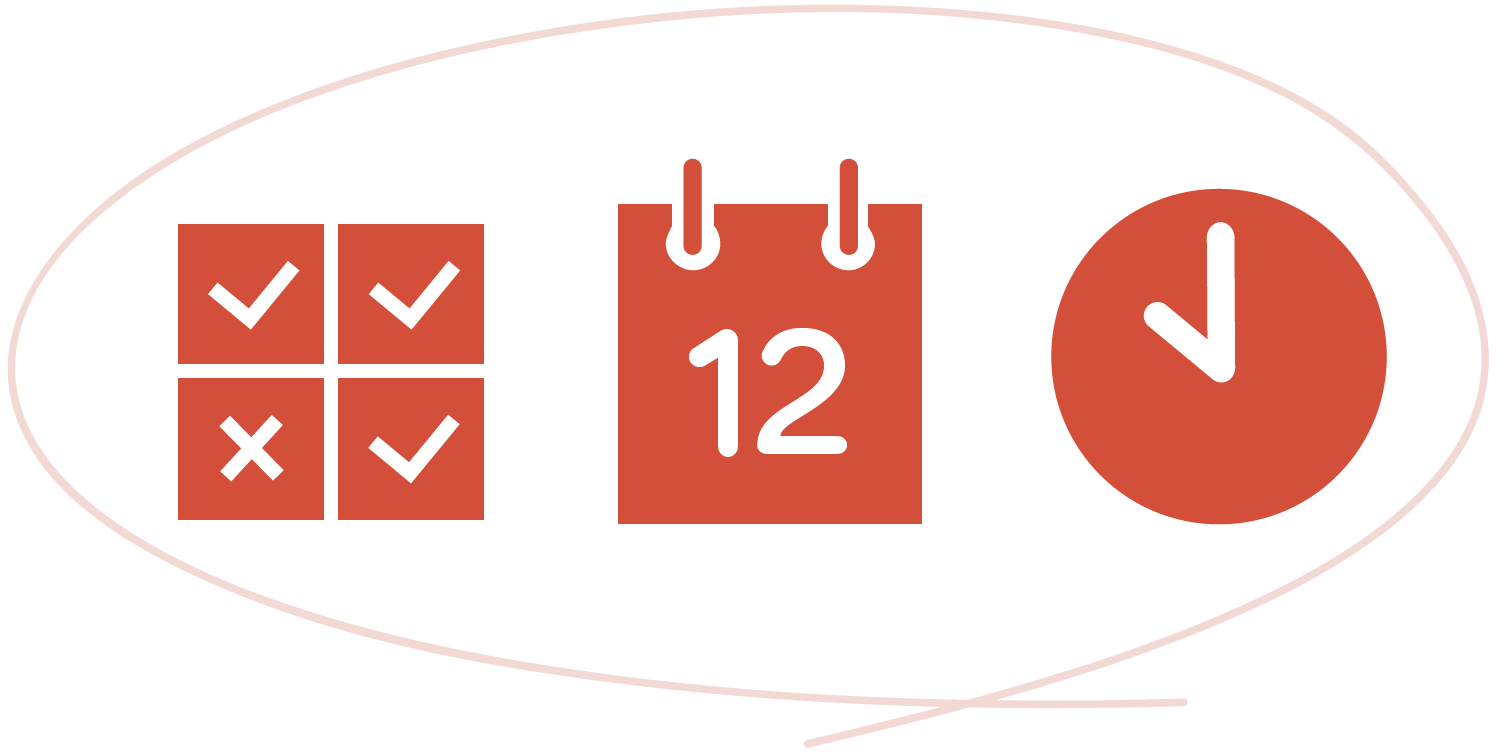
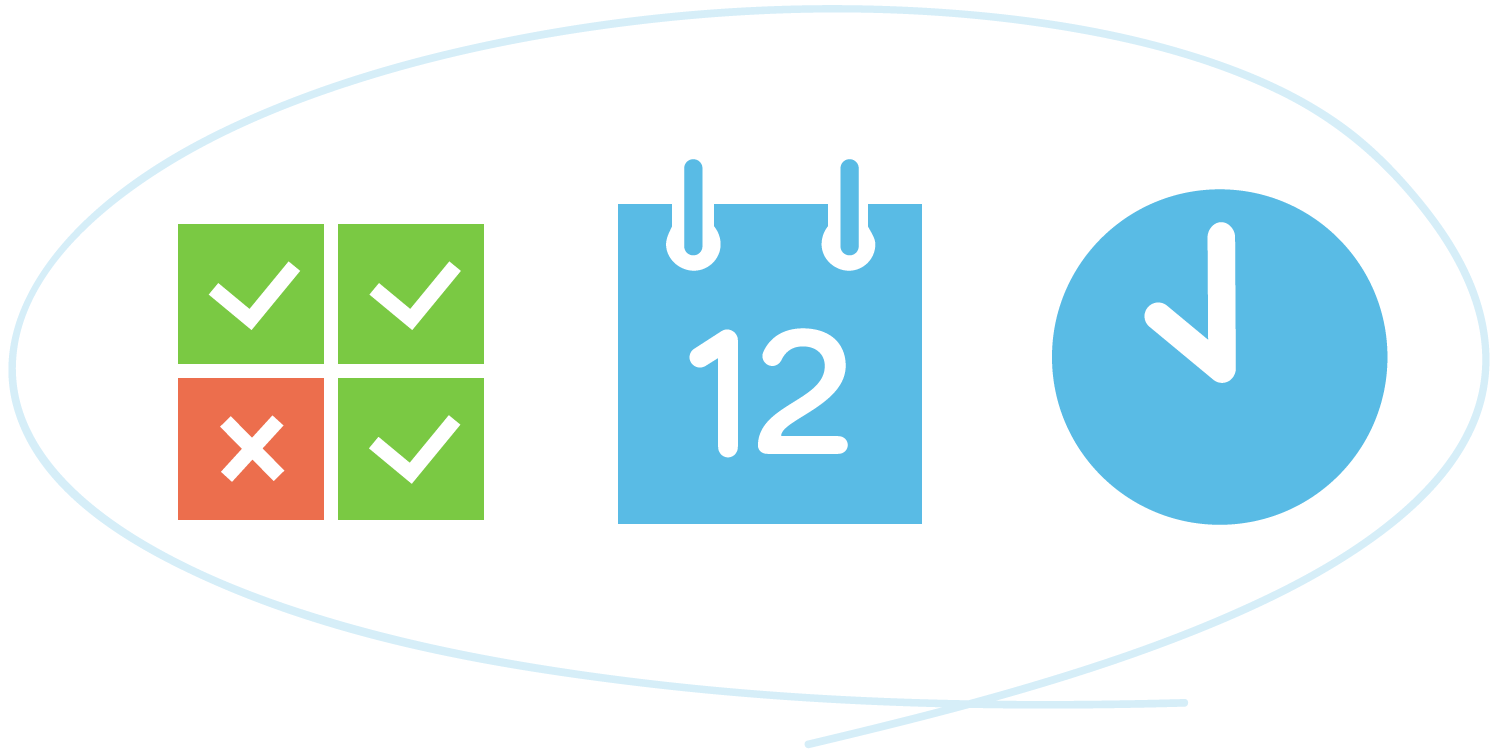
New landing page design.

diff --git a/app/assets/stylesheets/views/_welcome.css.scss b/app/assets/stylesheets/views/_welcome.css.scss
@@ -14,18 +14,13 @@ body.welcome {
       }
 
       h2 {
-        color: darken($bg-color, 16%);
-        font-weight: normal;
+        color: darken($bg-color, 20%);
         font-family: $bariol;
-        text-shadow: 0 1px 0 #fff;
-        font-variant: normal;
-        line-height: 1em;
-      }
-
-      p#learn-more {
-        @extend h2;
-        color: darken($bg-color, 35%);
         font-size: 1.2em;
+        line-height: 1em;
+        margin: 0 auto;
+        max-width: 400px;
+        text-shadow: 0 1px 0 #fff;
       }
     }
 
@@ -40,6 +35,23 @@ body.welcome {
           @extend .yammer-button;
         }
       }
+    }
+  }
+
+  div.learn-more {
+    @include fill-parent();
+    text-align: center;
+    padding: 5%;
+    font-size: 1.25em;
+    font-family: $bariol;
+
+    p {
+      @include border-radius(4px);
+      @include animation(bounce 1.5s 1s infinite);
+      color: darken($bg-color, 30%);
+      overflow: hidden;
+      white-space: nowrap;
+      margin: 0 auto;
     }
   }
 
@@ -66,9 +78,8 @@ body.welcome {
         font-family: $bariol;
         visibility: hidden;
         margin: 0 auto;
-        font-size: 2em;
+        font-size: 1.5em;
         @include box-sizing(border-box);
-        // padding: 70px 0;
         padding: 10%;
 
         img.illustration {
@@ -79,24 +90,14 @@ body.welcome {
 
         &.first-step {
           color: $blue;
-          // visibility: visible;
-          @include animation(bounceInRight 1s 0 1);
+          &.animated {
+            @include animation(bounceInLeft 1s 0 1);
+          }
         }
 
         &.second-step {
-          background: #AFDCE2;
+          background: $orange;
           color: #fff;
-
-          div.title {
-            width: 100%;
-            background: #3E9391;
-            padding: 15px 0;
-            font-family: $bariol-light;
-          }
-
-          img.illustration {
-            margin-top: 90px;
-          }
 
           &.animated {
             @include animation(bounceInLeft 1s 0 1);
@@ -106,20 +107,32 @@ body.welcome {
         &.third-step {
           color: #fff;
           background: $blue;
+          border-top: 10px solid darken($blue, 20%);
           &.animated {
             @include animation(bounceInRight 1s 0 1);
           }
         }
 
         &.fourth-step {
-          margin-bottom: 200px;
-          background: $orange;
-          color: #fff;
+          background: #d9f3f9;
+          color: $blue;
           &.animated {
             @include animation(bounceInLeft 1s 0 1);
           }
         }
       }
+    }
+  }
+
+  div.footer-sign-in {
+    @include fill-parent();
+    padding: 0 10% 5%;
+    text-align: center;
+
+    a.sign-in {
+      @extend .button;
+      @extend .yammer-button;
+      display: block;
     }
   }
 }

diff --git a/app/assets/javascripts/jquery.welcome.js b/app/assets/javascripts/jquery.welcome.js
@@ -1,37 +1,21 @@
-var welcomeHeader = $('#js-welcome-header');
+var scrollCallout = $('div.learn-more');
 var steps = $('section.steps li');
 
 $(document).ready(function() {
-  // setMarginHeights();
 
   // Displays the first step when the user starts scrolling
-  welcomeHeader.waypoint(function() {
-    $('.steps li:first-child').css('visibility', 'visible');
+  scrollCallout.waypoint(function() {
+    $('.steps li:first-child').css('visibility', 'visible').addClass('animated');
+    scrollCallout.hide();
+  }, {
+   offset: 250
   });
 
   // Shows a step after the user scrolls past the previous one
   steps.waypoint(function() {
-    // $(this).next('li').css('visibility', 'visible').addClass('animated');
-    $(this).next('li').css('visibility', 'visible');
+    $(this).next('li').css('visibility', 'visible').addClass('animated');
   }, {
     triggerOnce: 'true'
   });
 
 });
-
-$(window).resize(function() {
-  // setMarginHeights();
-});
-
-// Function that sets the top-margin and the height of the steps
-var setMarginHeights = function() {
-
-  var viewportHeight = window.innerHeight;
-  var viewportWidth = window.innerWidth;
-  var headerHeight = viewportHeight * 0.65;
-
-  if (viewportWidth > 480) {
-    welcomeHeader.css('height', headerHeight);
-  }
-};
-

diff --git a/app/assets/stylesheets/base/_animations.css.scss b/app/assets/stylesheets/base/_animations.css.scss
@@ -303,3 +303,34 @@
   }
 }
 
+// Scroll to learn more animation
+
+@-webkit-keyframes bounce {
+  0%, 20%, 50%, 80%, 100% {-webkit-transform: translateY(0);}
+  40% {-webkit-transform: translateY(18px);}
+  60% {-webkit-transform: translateY(15px);}
+}
+
+@-moz-keyframes bounce {
+  0%, 20%, 50%, 80%, 100% {-moz-transform: translateY(0);}
+  40% {-moz-transform: translateY(18px);}
+  60% {-moz-transform: translateY(15px);}
+}
+
+@-ms-keyframes bounce {
+  0%, 20%, 50%, 80%, 100% {-ms-transform: translateY(0);}
+  40% {-ms-transform: translateY(18px);}
+  60% {-ms-transform: translateY(15px);}
+}
+
+@-o-keyframes bounce {
+  0%, 20%, 50%, 80%, 100% {-o-transform: translateY(0);}
+  40% {-o-transform: translateY(18px);}
+  60% {-o-transform: translateY(15px);}
+}
+@keyframes bounce {
+  0%, 20%, 50%, 80%, 100% {transform: translateY(0);}
+  40% {transform: translateY(18px);}
+  60% {transform: translateY(15px);}
+}
+

diff --git a/app/assets/stylesheets/media-queries/500-up/_welcome.css.scss b/app/assets/stylesheets/media-queries/500-up/_welcome.css.scss
@@ -7,6 +7,10 @@ body.welcome {
         img {
         }
       }
+
+      h2 {
+        font-size: 1.6em;
+      }
     }
 
     div.sign-in {
@@ -15,6 +19,22 @@ body.welcome {
           max-width: 350px;
         }
       }
+    }
+  }
+
+  div.learn-more {
+    padding: 3.5% 40px 40px;
+    font-size: 2.5em;
+
+    p {
+      @include border-radius(8px);
+    }
+  }
+
+  div.footer-sign-in {
+    padding:30px 0 50px;
+    a.sign-in {
+      max-width: 350px;
     }
   }
 
@@ -27,6 +47,7 @@ body.welcome {
     ul {
       li {
         font-size: 3em;
+        padding: 100px 0;
       }
     }
   }

diff --git a/app/assets/stylesheets/media-queries/760-up/_welcome.css.scss b/app/assets/stylesheets/media-queries/760-up/_welcome.css.scss
@@ -10,19 +10,22 @@ body.welcome {
         }
       }
     }
+  }
 
-    div.sign-in {
-      a {
-        &.sign-in {
+  div.learn-more {
 
-        }
-      }
-    }
   }
 
   section.steps {
     ul {
       li {
+        &.second-step {
+          font-family: $bariol-light;
+        }
+
+        &.third-step {
+          font-family: $bariol-light;
+        }
       }
     }
   }

diff --git a/app/assets/stylesheets/media-queries/320-up/_welcome.css.scss b/app/assets/stylesheets/media-queries/320-up/_welcome.css.scss
@@ -21,9 +21,21 @@ body.welcome {
     }
   }
 
+   div.learn-more {
+    font-size: 1.8em;
+  }
+
+
+  div.footer-sign-in {
+    a.sign-in {
+      font-size: 1.5em;
+    }
+  }
+
   section.steps {
     ul {
       li {
+        font-size: 2em;
       }
     }
   }
